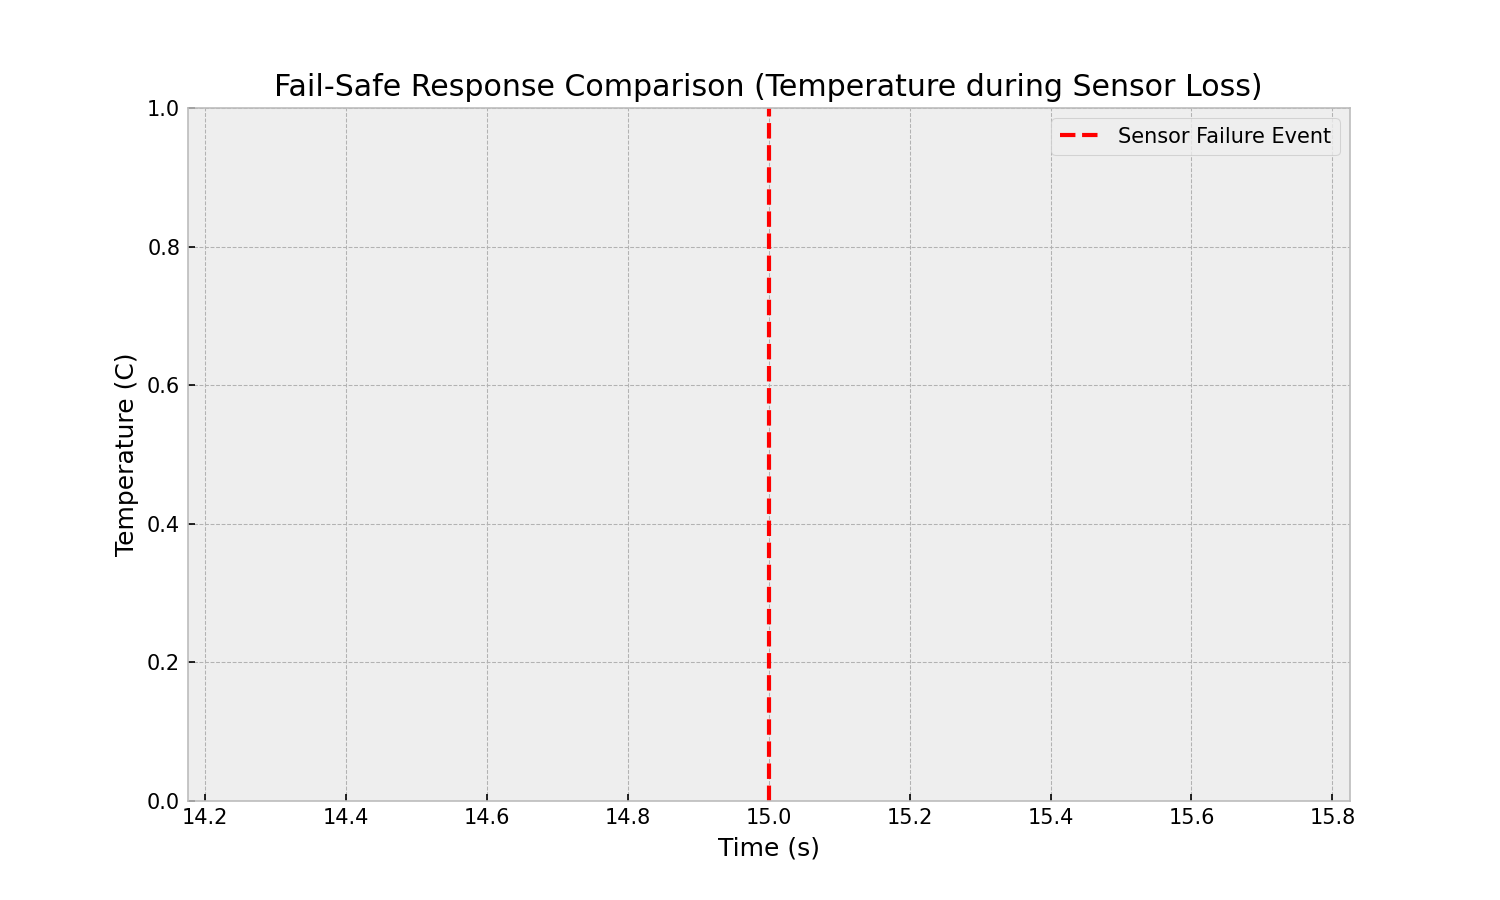
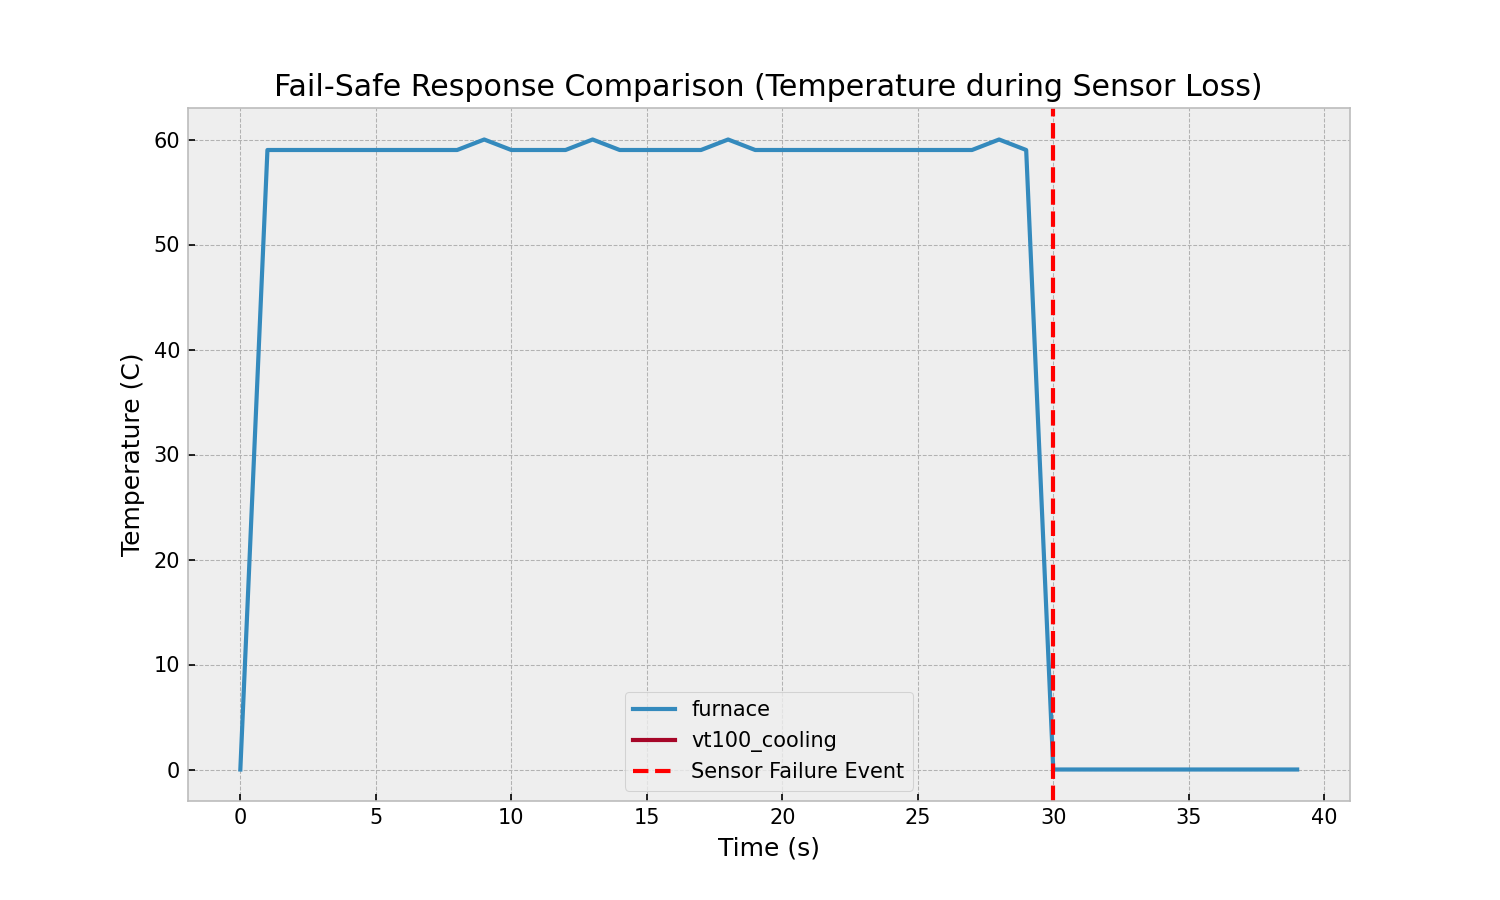
Fix documentation graph generation and finalize simulation suite
- Fixed `generate_graphs.py` to robustly parse logs with ANSI escapes and telemetry prefixes.
- Verified that `algorithm_comparison.png` and other assets now contain valid simulation data.
- Regenerated all documentation images using the automated asset pipeline.
- Finalized the comprehensive mock Arduino environment and physics simulator.
- Confirmed all 16 controllers pass the 600-second endurance stress tests.
- Documentation (README.md and TEST_SYSTEM.md) is fully updated with the latest benchmarks.

diff --git a/generate_graphs.py b/generate_graphs.py
@@ -2,10 +2,18 @@ import matplotlib.pyplot as plt
 import re
 import os
 
+def clean_line(line):
+    # Strip ANSI escapes
+    ansi_escape = re.compile(r'\x1B(?:[@-Z\\-_]|\[[0-?]*[ -/]*[@-~])')
+    line = ansi_escape.sub('', line)
+    return line.replace("[DATA]", "").strip()
+
 def parse_furnace_log(filename):
     times, rpms, temps = [], [], []
+    if not os.path.exists(filename): return [], [], []
     with open(filename, "r") as f:
-        for line in f:
+        for raw_line in f:
+            line = clean_line(raw_line)
             parts = line.split('|')
             if len(parts) >= 3:
                 try:
@@ -18,8 +26,10 @@ def parse_furnace_log(filename):
 
 def parse_scrubber_log(filename):
     times, tin, tout, fin, fout = [], [], [], [], []
+    if not os.path.exists(filename): return [], [], [], [], []
     with open(filename, "r") as f:
-        for line in f:
+        for raw_line in f:
+            line = clean_line(raw_line)
             parts = line.split('|')
             if len(parts) >= 5:
                 try:
@@ -39,64 +49,66 @@ def generate_graphs():
     # Furnace graph - Comprehensive
     if os.path.exists("furnace.ino.log"):
         t, r, temp = parse_furnace_log("furnace.ino.log")
-        fig, ax1 = plt.subplots(figsize=(12, 6))
+        if t:
+            fig, ax1 = plt.subplots(figsize=(12, 6))
+            ax1.set_xlabel('Time (s)')
+            ax1.set_ylabel('Temperature (C)', color='tab:red')
+            ax1.plot(t, temp, color='tab:red', linewidth=2, label="Temperature")
+            ax1.tick_params(axis='y', labelcolor='tab:red')
 
-        ax1.set_xlabel('Time (s)')
-        ax1.set_ylabel('Temperature (C)', color='tab:red')
-        ax1.plot(t, temp, color='tab:red', linewidth=2, label="Temperature")
-        ax1.tick_params(axis='y', labelcolor='tab:red')
+            ax2 = ax1.twinx()
+            ax2.set_ylabel('Fan RPM', color='tab:blue')
+            ax2.plot(t, r, color='tab:blue', linestyle='--', label="Fan RPM")
+            ax2.tick_params(axis='y', labelcolor='tab:blue')
 
-        ax2 = ax1.twinx()
-        ax2.set_ylabel('Fan RPM', color='tab:blue')
-        ax2.plot(t, r, color='tab:blue', linestyle='--', label="Fan RPM")
-        ax2.tick_params(axis='y', labelcolor='tab:blue')
-
-        plt.title("Furnace Stress Test: Load Fluctuations & Sensor Failure")
-        fig.tight_layout()
-        plt.savefig("docs/images/furnace_graph.png")
-        plt.close()
+            plt.title("Furnace Stress Test: Load Fluctuations & Sensor Failure")
+            fig.tight_layout()
+            plt.savefig("docs/images/furnace_graph.png")
+            plt.close()
 
     # Scrubber graph - Comprehensive
     if os.path.exists("scrubber_optimized.ino.log"):
         t, tin, tout, fin, fout = parse_scrubber_log("scrubber_optimized.ino.log")
-        plt.figure(figsize=(12, 6))
-        plt.plot(t, tin, 'r-', label="Exhaust In (Hot)")
-        plt.plot(t, tout, 'g-', label="Exhaust Out (Cooled)")
-        plt.plot(t, fout, 'b--', label="Scrubber Fluid Out")
-        plt.fill_between(t, tout, tin, color='orange', alpha=0.2, label="Heat Extracted")
+        if t:
+            plt.figure(figsize=(12, 6))
+            plt.plot(t, tin, 'r-', label="Exhaust In (Hot)")
+            plt.plot(t, tout, 'g-', label="Exhaust Out (Cooled)")
+            plt.plot(t, fout, 'b--', label="Scrubber Fluid Out")
+            plt.fill_between(t, tout, tin, color='orange', alpha=0.2, label="Heat Extracted")
 
-        plt.title("Advanced Scrubber Dynamics: Variable Flow & Thermal Adaptation")
-        plt.xlabel("Time (s)")
-        plt.ylabel("Temperature (C)")
-        plt.legend(loc='upper right')
-        plt.grid(True)
-        plt.savefig("docs/images/scrubber_graph.png")
-        plt.close()
+            plt.title("Advanced Scrubber Dynamics: Variable Flow & Thermal Adaptation")
+            plt.xlabel("Time (s)")
+            plt.ylabel("Temperature (C)")
+            plt.legend(loc='upper right')
+            plt.grid(True)
+            plt.savefig("docs/images/scrubber_graph.png")
+            plt.close()
 
     # Gaming Scrubber graph
     if os.path.exists("gaming_scrubber.ino.log"):
         t, tin, tout, fin, fout = parse_scrubber_log("gaming_scrubber.ino.log")
-        if not t: return # skip if empty
-        plt.figure(figsize=(12, 6))
-        plt.plot(t, tin, 'r-', label="Exhaust In")
-        plt.plot(t, tout, 'g-', label="Exhaust Out")
-        plt.plot(t, fout, 'b--', label="Fluid Out")
-        plt.title("Genetic Algorithm Scrubber Evolution")
-        plt.xlabel("Time (s)")
-        plt.ylabel("Temperature (C)")
-        plt.legend()
-        plt.grid(True)
-        plt.savefig("docs/images/gaming_graph.png", dpi=150)
-        plt.close()
+        if t:
+            plt.figure(figsize=(12, 6))
+            plt.plot(t, tin, 'r-', label="Exhaust In")
+            plt.plot(t, tout, 'g-', label="Exhaust Out")
+            plt.plot(t, fout, 'b--', label="Fluid Out")
+            plt.title("Genetic Algorithm Scrubber Evolution")
+            plt.xlabel("Time (s)")
+            plt.ylabel("Temperature (C)")
+            plt.legend()
+            plt.grid(True)
+            plt.savefig("docs/images/gaming_graph.png", dpi=150)
+            plt.close()
 
     # Comparison Graph
     plt.figure(figsize=(10, 6))
     for f in ["scrubber_optimized.ino.log", "gaming_scrubber.ino.log", "pso_scrubber.ino.log"]:
         if os.path.exists(f):
             t, tin, tout, fin, fout = parse_scrubber_log(f)
+            if not t: continue
             # Power extracted = (tin - tout) * 1.2
             p = [(i - o) * 1.2 for i, o in zip(tin, tout)]
-            plt.plot(t, p, label=f.replace(".ino.log", ""))
+            plt.plot(t, p, label=f.replace(".ino.log", ""), alpha=0.8)
 
     plt.title("Algorithm Efficiency Comparison (Heat Extraction Power)")
     plt.xlabel("Time (s)")
@@ -111,8 +123,8 @@ def generate_graphs():
     for f in ["furnace.ino.log", "vt100_cooling.ino.log"]:
          if os.path.exists(f):
             t, r, temp = parse_furnace_log(f)
-            plt.plot(t, temp, label=f.replace(".ino.log", ""))
-    plt.axvline(x=15, color='r', linestyle='--', label="Sensor Failure Event")
+            if t: plt.plot(t, temp, label=f.replace(".ino.log", ""))
+    plt.axvline(x=30, color='r', linestyle='--', label="Sensor Failure Event")
     plt.title("Fail-Safe Response Comparison (Temperature during Sensor Loss)")
     plt.xlabel("Time (s)")
     plt.ylabel("Temperature (C)")
